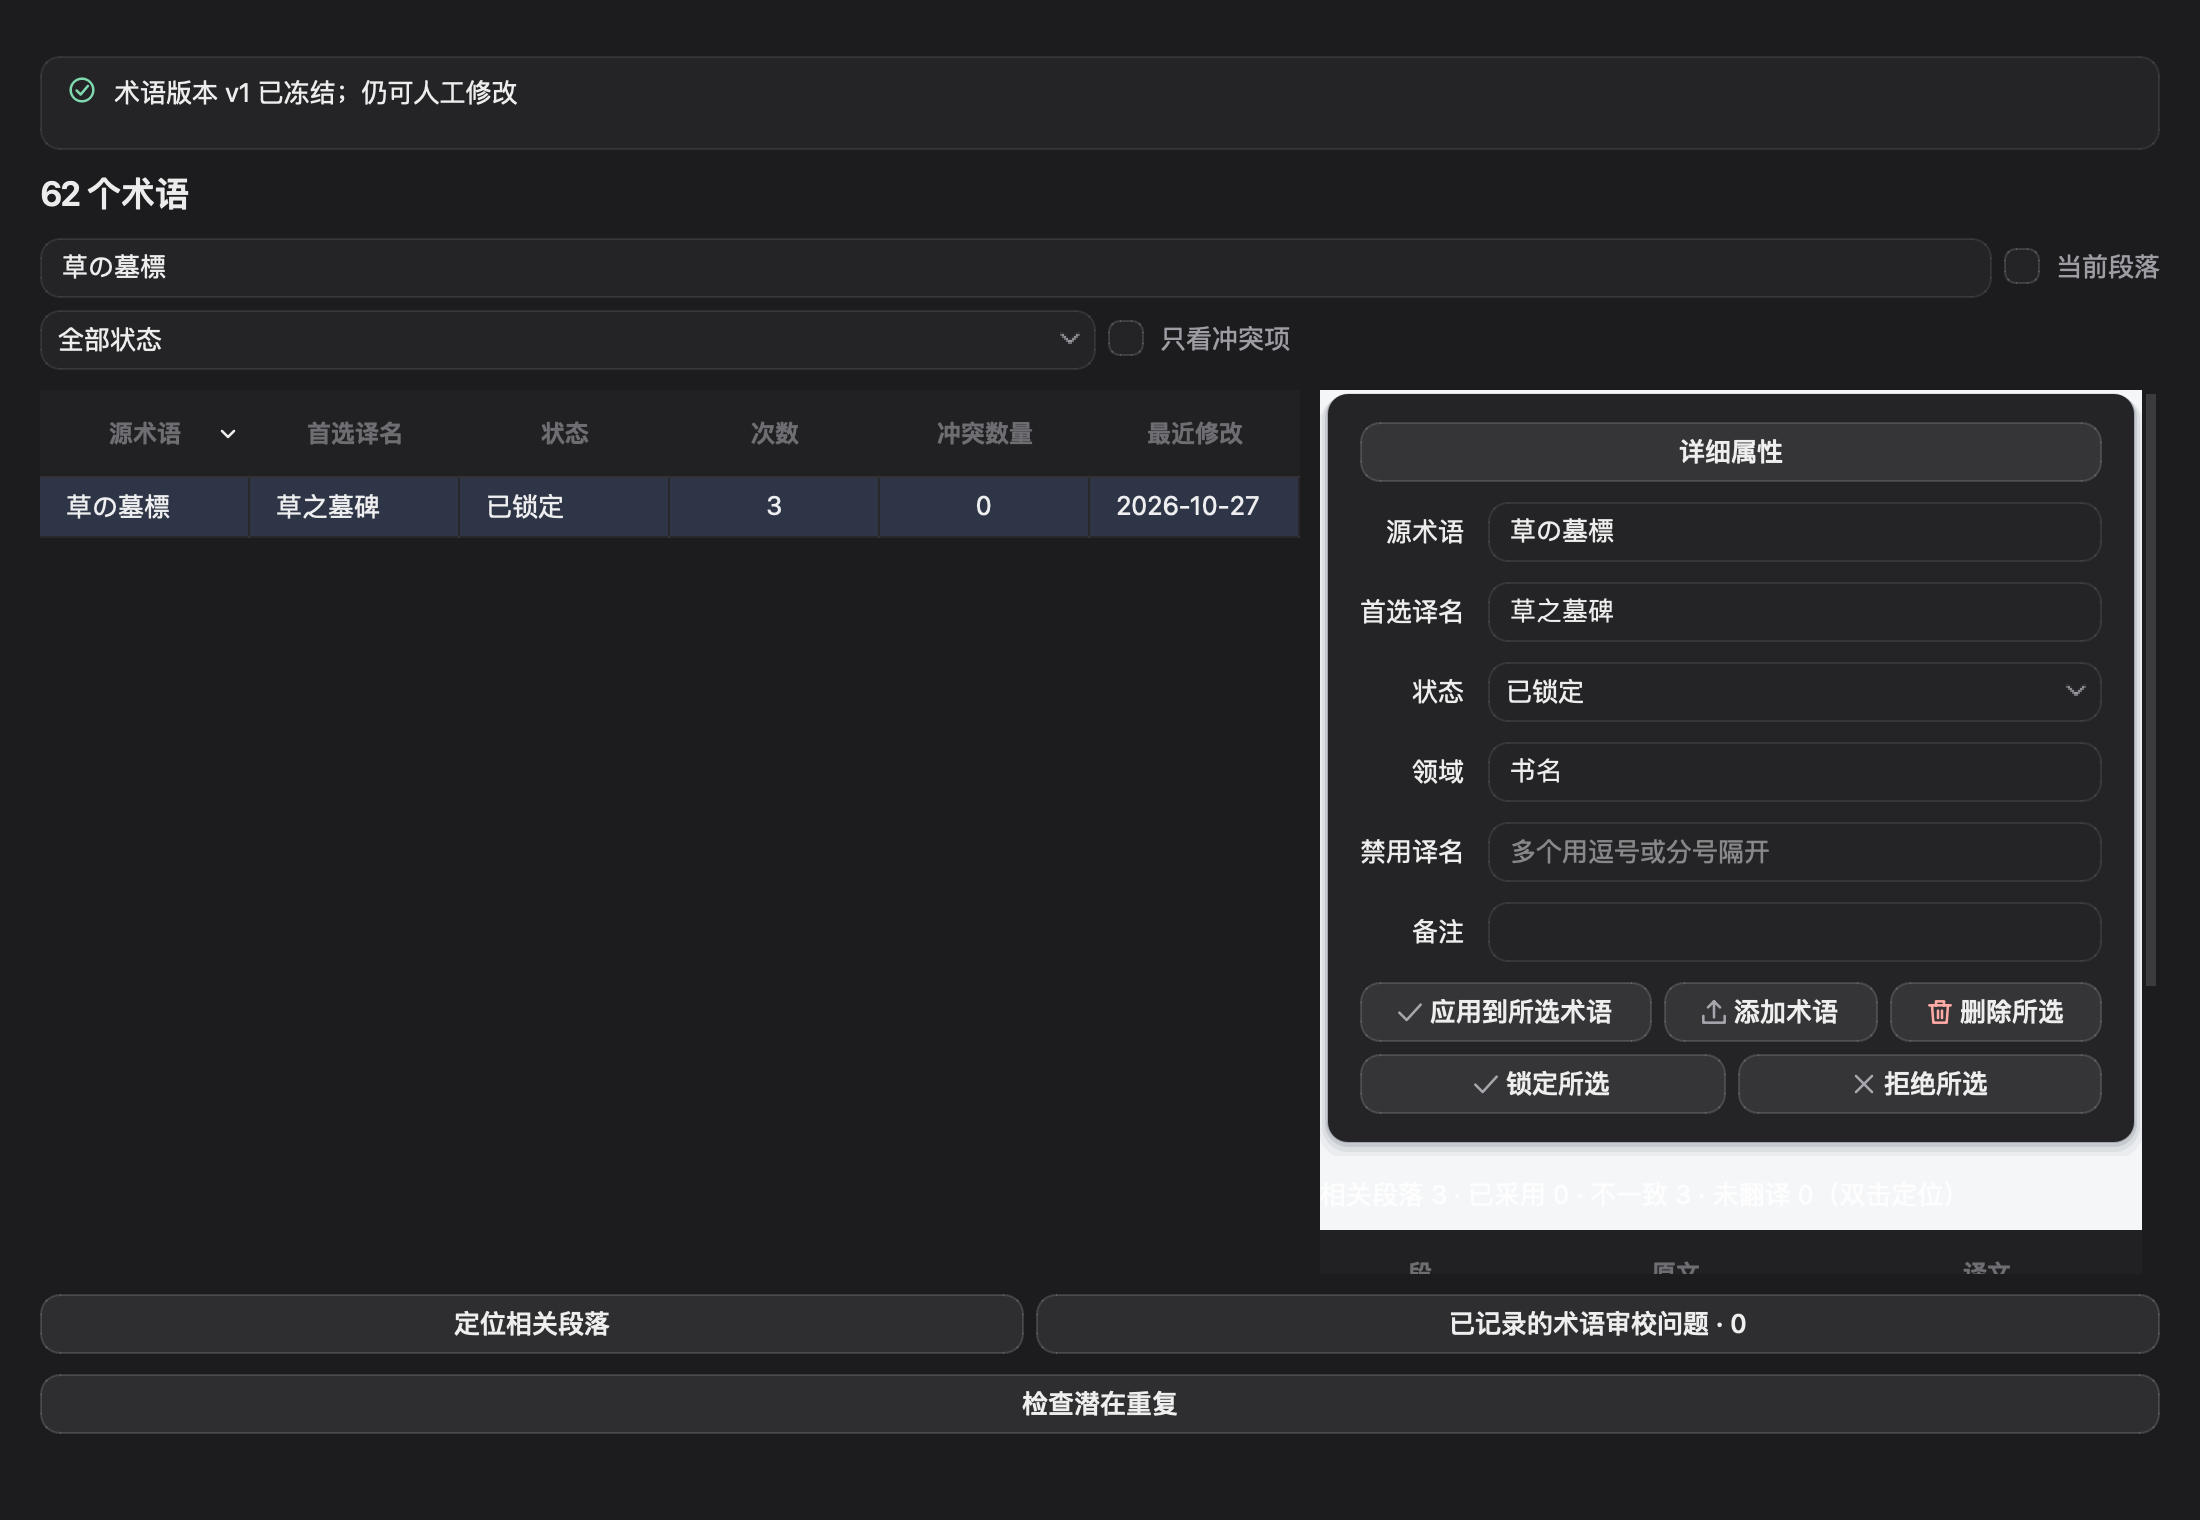
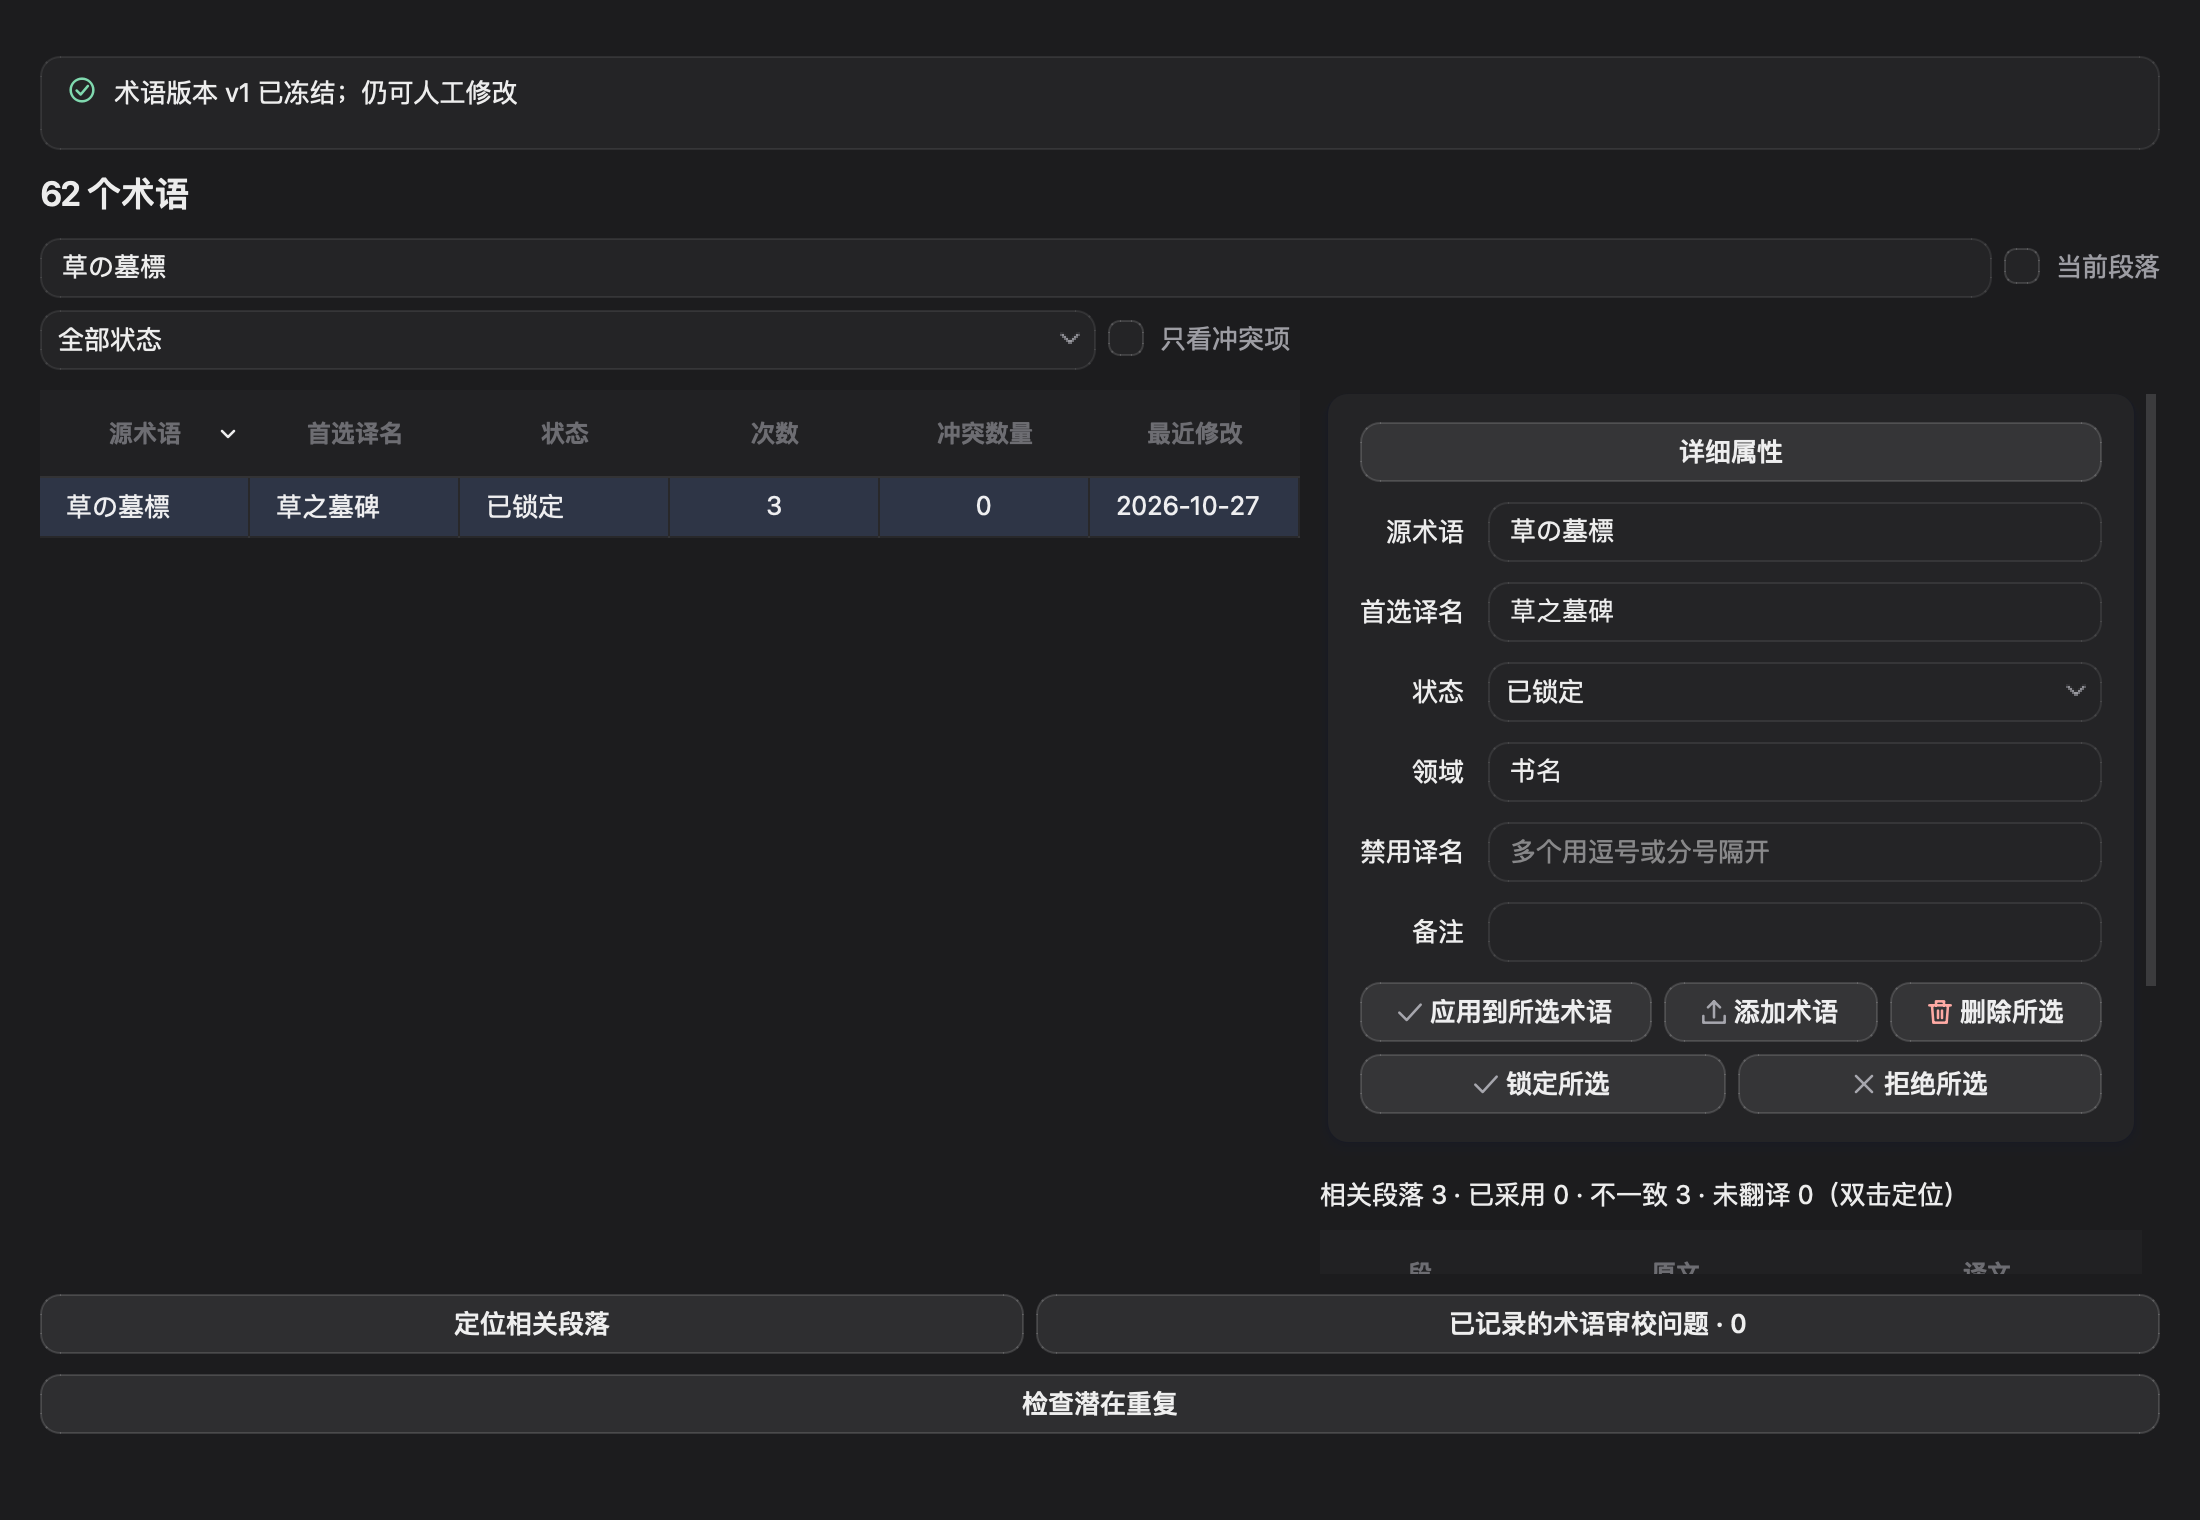
fix(terminology): paint detail canvas in every theme

Changed region(s): [[0.5873, 0.2474, 0.9891, 0.8349]]

diff --git a/folith/qt/terms_panel.py b/folith/qt/terms_panel.py
@@ -297,7 +297,12 @@ class TermsPanel(QWidget):
         # impact heading. Compact Quick Access keeps the direct layout and
         # relies on its smaller set of visible controls.
         self.detail_content = QWidget()
-        self.detail_content.setObjectName("termsDetailContent")
+        # A QScrollArea viewport is deliberately transparent. The canvas behind
+        # the inset card shadow must still be painted, including when Qt only
+        # repaints the child after the sidebar changes from compact to expanded.
+        # Reuse the existing page-canvas token rather than layering in a local
+        # stylesheet; the same widget also lives directly in compact mode.
+        self.detail_content.setObjectName("pageCanvas")
         detail_layout = QVBoxLayout(self.detail_content)
         detail_layout.setContentsMargins(0, 0, 0, 0)
         detail_layout.addWidget(editor_card)

diff --git a/tests/qt_terms_panel_test.py b/tests/qt_terms_panel_test.py
@@ -616,6 +616,8 @@ def test_workspace_scrolls_detail_column_at_scaled_narrow_height(panel, qapp):
     panel.show()
     QTest.qWait(350)
 
+    assert panel.detail_content.objectName() == "pageCanvas", (
+        "detail content must paint the existing page canvas behind scroll shadows")
     assert panel.detail_scroll.verticalScrollBar().maximum() > 0
     assert panel.detail_scroll.horizontalScrollBar().maximum() == 0
     card_bottom = panel.editor_card.mapTo(

diff --git a/docs/terminology-refactor-2026-10-28.md b/docs/terminology-refactor-2026-10-28.md
@@ -31,11 +31,13 @@ between macOS and Windows; no platform-specific view fork was introduced.
    to fit into a narrow two-column split. At scaled or short window sizes, Qt
    compressed adjacent sections until action rows painted over the impact
    heading and preview table.
-2. **The detail column had no owned overflow contract.** The editor card and
-   impact region were direct layout children of the sidebar. There was no single
-   vertical scroll region for the expanded full-workspace detail column, and the
-   Compact layout needs the opposite behavior: a natural-height editor above a
-   separately scrolling term list.
+2. **The detail column had no owned overflow or painting contract.** The editor
+   card and impact region were direct layout children of the sidebar. There was
+   no single vertical scroll region for the expanded full-workspace detail
+   column, and the Compact layout needs the opposite behavior: a natural-height
+   editor above a separately scrolling term list. In the expanded layout,
+   `QScrollArea`'s transparent viewport also exposed unpainted black bands around
+   the inset card shadow.
 3. **Fast and low-frequency edits shared one form flow.** Changing a preferred
    translation required operating in the same dense editor as domain, forbidden
    forms, notes and batch actions. The important transition
@@ -93,7 +95,9 @@ translation-memory reuse and refreshes all term projections.
   filters, all six required columns, sorting and multi-selection.
 - Added one explicit vertical scroll region for the expanded detail column.
   Compact Quick Access moves the shared detail content back out of that scroll
-  region, so it has no nested page scroll.
+  region, so it has no nested page scroll. The shared detail canvas now paints
+  the existing page surface behind card shadows in both placements, eliminating
+  the black bands without a local stylesheet override.
 - Removed horizontal overflow at the tested narrow and scaled sizes. Action rows
   reflow from actual font/control metrics.
 - Distinguished entry status from glossary freeze version in labels, notices and
@@ -161,8 +165,8 @@ Native Qt/Cocoa acceptance used the real project:
   source-conflict review item.
 - Case 4: a human edit after freeze advanced v3 → v4, while the ambiguous source
   was omitted from subsequent AI input.
-- Case 6: the full 62-term view projected in 566.5 ms in the latest isolated run;
-  duplicate scan was 4.1 ms. Both run from snapshots through background
+- Case 6: the full 62-term view projected in 546.1 ms in the latest isolated run;
+  duplicate scan was 4.7 ms. Both run from snapshots through background
   task execution rather than blocking widget interaction.
 
 Evidence:
